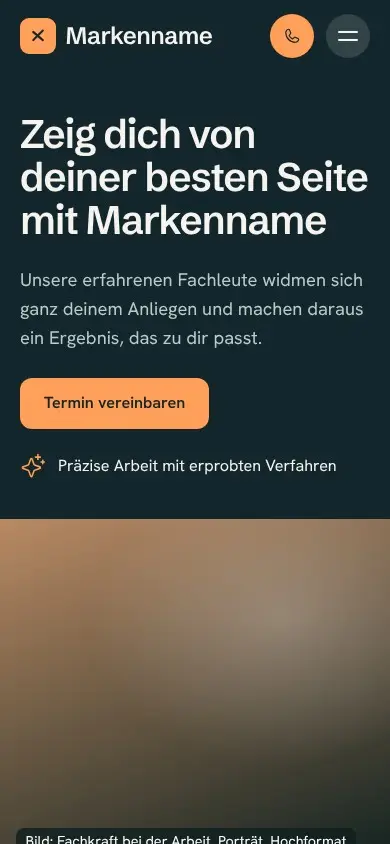
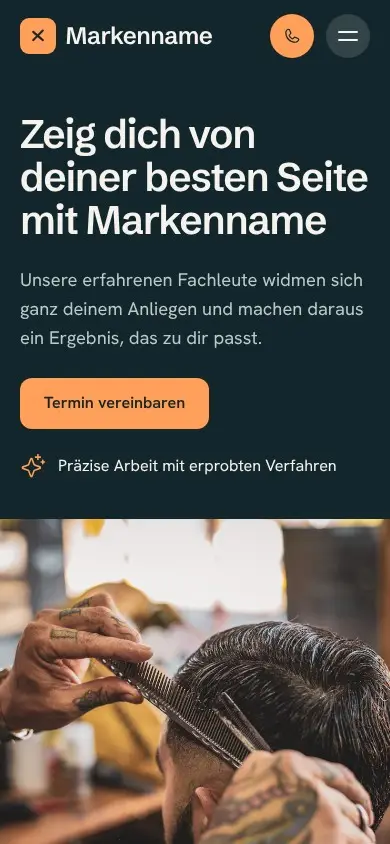
Bibliothek t38: Beispielfotos (Unsplash) eingebaut, Vorschaubilder neu erzeugt
Claude-Session: https://claude.ai/code/session_01DoGuL1bwF3ewggMgZ4Cpvd

diff --git a/skills/webdesign-conversion/assets/vorlagen/bibliothek/t38/v2.html b/skills/webdesign-conversion/assets/vorlagen/bibliothek/t38/v2.html
@@ -69,7 +69,7 @@
 <main id="inhalt">
   <!-- 1. Held Vollbild mit Verlauf von links -->
   <section class="held2" id="top" aria-labelledby="h-held">
-    <div class="bild held2__bild" data-platzhalter="Bild: Fachkraft bei der Arbeit, Porträt, Querformat" role="img" aria-label="Platzhalter für ein Foto einer Fachkraft bei der Arbeit" data-parallax="0.06"></div>
+    <div class="bild held2__bild" data-parallax="0.06"><img src="bilder/herrenschnitt-nacken.webp" width="1600" height="1067" alt="Friseur schneidet Haare am Nacken eines Kunden" loading="lazy" decoding="async"></div>
     <div class="held2__schleier" aria-hidden="true"></div>
     <div class="wrap held2__innen">
       <h1 id="h-held" data-zeig>Erlebe Qualität wie noch nie zuvor</h1>
@@ -106,7 +106,7 @@
           <li>Eine ruhige Pause mit angenehmer Pflege</li>
         </ul>
       </div>
-      <div class="bild kerbe ueber2__bild" data-zeig="skala" data-platzhalter="Bild: Arbeit am Platz, Querformat" role="img" aria-label="Platzhalter für ein Foto der Arbeit am Platz"></div>
+      <div class="bild kerbe ueber2__bild" data-zeig="skala"><img src="bilder/haarschneidemaschine-nacken.webp" width="1600" height="1067" alt="Haarschneidemaschine am Nacken" loading="lazy" decoding="async"></div>
     </div>
   </section>
 
@@ -126,10 +126,10 @@
       <div class="leistungen2__feld">
         <h2 id="h-leistungen2" data-zeig>Unsere Hauptleistungen</h2>
         <ul class="leistungen2__raster" data-staffel data-beispiel>
-          <li class="leistung2" data-zeig><div class="bild bild--p1" data-platzhalter="Bild" role="img" aria-label="Platzhalter für ein Foto"></div><div><h3>Schnitt</h3><p>Wir schneiden maßgeschneidert und passend zu dir und deinem Alltag.</p><a class="leistung2__link" href="#preise">Zur Preisliste<svg width="18" height="18" aria-hidden="true" focusable="false"><use href="#i-arrow-right"/></svg></a></div></li>
-          <li class="leistung2" data-zeig><div class="bild bild--p2" data-platzhalter="Bild" role="img" aria-label="Platzhalter für ein Foto"></div><div><h3>Farbe</h3><p>Von dezent bis kräftig: fachgerecht, mit Beratung und Nachsorge.</p><a class="leistung2__link" href="#preise">Zur Preisliste<svg width="18" height="18" aria-hidden="true" focusable="false"><use href="#i-arrow-right"/></svg></a></div></li>
-          <li class="leistung2" data-zeig><div class="bild bild--p3" data-platzhalter="Bild" role="img" aria-label="Platzhalter für ein Foto"></div><div><h3>Pflege</h3><p>Pflegende Behandlungen für mehr Glanz, Kraft und Wohlbefinden.</p><a class="leistung2__link" href="#preise">Zur Preisliste<svg width="18" height="18" aria-hidden="true" focusable="false"><use href="#i-arrow-right"/></svg></a></div></li>
-          <li class="leistung2" data-zeig><div class="bild bild--p4" data-platzhalter="Bild" role="img" aria-label="Platzhalter für ein Foto"></div><div><h3>Anlass</h3><p>Ein Look für Hochzeit, Fest oder Auftritt, der den ganzen Tag hält.</p><a class="leistung2__link" href="#preise">Zur Preisliste<svg width="18" height="18" aria-hidden="true" focusable="false"><use href="#i-arrow-right"/></svg></a></div></li>
+          <li class="leistung2" data-zeig><div class="bild bild--p1"><img src="bilder/damenschnitt-sw.webp" width="1000" height="632" alt="Schwarzweißbild eines Haarschnitts im Salon" loading="lazy" decoding="async"></div><div><h3>Schnitt</h3><p>Wir schneiden maßgeschneidert und passend zu dir und deinem Alltag.</p><a class="leistung2__link" href="#preise">Zur Preisliste<svg width="18" height="18" aria-hidden="true" focusable="false"><use href="#i-arrow-right"/></svg></a></div></li>
+          <li class="leistung2" data-zeig><div class="bild bild--p2"><img src="bilder/rundbuerste-rotes-haar.webp" width="1000" height="667" alt="Rundbürste in rotem Haar" loading="lazy" decoding="async"></div><div><h3>Farbe</h3><p>Von dezent bis kräftig: fachgerecht, mit Beratung und Nachsorge.</p><a class="leistung2__link" href="#preise">Zur Preisliste<svg width="18" height="18" aria-hidden="true" focusable="false"><use href="#i-arrow-right"/></svg></a></div></li>
+          <li class="leistung2" data-zeig><div class="bild bild--p3"><img src="bilder/farbpinsel-nahaufnahme.webp" width="800" height="450" alt="Nahaufnahme von Pinseln mit roten und braunen Borsten" loading="lazy" decoding="async"></div><div><h3>Pflege</h3><p>Pflegende Behandlungen für mehr Glanz, Kraft und Wohlbefinden.</p><a class="leistung2__link" href="#preise">Zur Preisliste<svg width="18" height="18" aria-hidden="true" focusable="false"><use href="#i-arrow-right"/></svg></a></div></li>
+          <li class="leistung2" data-zeig><div class="bild bild--p4"><img src="bilder/fade-schnitt.webp" width="1000" height="667" alt="Friseur arbeitet an einem Fade Haarschnitt" loading="lazy" decoding="async"></div><div><h3>Anlass</h3><p>Ein Look für Hochzeit, Fest oder Auftritt, der den ganzen Tag hält.</p><a class="leistung2__link" href="#preise">Zur Preisliste<svg width="18" height="18" aria-hidden="true" focusable="false"><use href="#i-arrow-right"/></svg></a></div></li>
         </ul>
         <p class="mitte"><a class="knopf" href="#preise">Alle Leistungen</a></p>
       </div>
@@ -174,13 +174,13 @@
   <!-- 7. Willkommensangebot im dunklen Feld mit zwei Bildern -->
   <section class="willkommen" aria-labelledby="h-willkommen">
     <div class="wrap willkommen__feld">
-      <div class="bild willkommen__bild willkommen__bild--a" data-zeig="links" data-platzhalter="Bild: Detail" role="img" aria-label="Platzhalter für ein Foto"></div>
+      <div class="bild willkommen__bild willkommen__bild--a" data-zeig="links"><img src="bilder/farbpinsel-nahaufnahme.webp" width="800" height="450" alt="Nahaufnahme von Pinseln mit roten und braunen Borsten" loading="lazy" decoding="async"></div>
       <div class="willkommen__text" data-zeig>
         <h2 id="h-willkommen"><span>Willkommensangebot</span> 20 Prozent Nachlass auf deinen ersten Besuch</h2>
         <p data-beispiel>Wir möchten dich mit einem besonderen Nachlass auf deinen ersten Termin kennenlernen.</p>
         <p><a class="knopf" href="#termin">Angebot sichern</a></p>
       </div>
-      <div class="bild willkommen__bild willkommen__bild--b" data-zeig="rechts" data-platzhalter="Bild: Beratung" role="img" aria-label="Platzhalter für ein Foto"></div>
+      <div class="bild willkommen__bild willkommen__bild--b" data-zeig="rechts"><img src="bilder/salon-empfang-regale.webp" width="1600" height="1067" alt="Heller Salon mit Empfangstresen und Regalen voller Haarprodukte" loading="lazy" decoding="async"></div>
     </div>
   </section>
 
@@ -270,8 +270,8 @@
     <div class="wrap">
       <header class="ratgeber__kopf"><h2 id="h-ratgeber" data-zeig>Aus unserem Ratgeber</h2><a class="knopf" href="#ratgeber">Alle Beiträge</a></header>
       <ul class="ratgeber__raster" data-staffel data-beispiel>
-        <li class="beitrag" data-zeig><div><p class="beitrag__datum">2. Dezember 2026</p><h3>Trends, die du in dieser Saison probieren kannst</h3></div><a class="knopf knopf--dunkel" href="#ratgeber">Weiterlesen<span class="sr-nur">: Trends</span></a><div class="bild bild--p2" data-platzhalter="Bild" role="img" aria-label="Platzhalter für ein Foto"></div></li>
-        <li class="beitrag" data-zeig><div><p class="beitrag__datum">2. Dezember 2026</p><h3>So wählst du die passende Farbe für deinen Typ</h3></div><a class="knopf knopf--dunkel" href="#ratgeber">Weiterlesen<span class="sr-nur">: Farbwahl</span></a><div class="bild bild--p3" data-platzhalter="Bild" role="img" aria-label="Platzhalter für ein Foto"></div></li>
+        <li class="beitrag" data-zeig><div><p class="beitrag__datum">2. Dezember 2026</p><h3>Trends, die du in dieser Saison probieren kannst</h3></div><a class="knopf knopf--dunkel" href="#ratgeber">Weiterlesen<span class="sr-nur">: Trends</span></a><div class="bild bild--p2"><img src="bilder/friseur-rasiermesser.webp" width="800" height="533" alt="Friseur arbeitet mit Kamm und Schere an einem Haarschnitt" loading="lazy" decoding="async"></div></li>
+        <li class="beitrag" data-zeig><div><p class="beitrag__datum">2. Dezember 2026</p><h3>So wählst du die passende Farbe für deinen Typ</h3></div><a class="knopf knopf--dunkel" href="#ratgeber">Weiterlesen<span class="sr-nur">: Farbwahl</span></a><div class="bild bild--p3"><img src="bilder/lockenwickler-pinsel.webp" width="800" height="620" alt="Haare mit Lockenwicklern, ein Pinsel wird aufgetragen" loading="lazy" decoding="async"></div></li>
       </ul>
     </div>
   </section>

diff --git a/skills/webdesign-conversion/assets/vorlagen/bibliothek/t38/index.html b/skills/webdesign-conversion/assets/vorlagen/bibliothek/t38/index.html
@@ -76,7 +76,7 @@
         <p class="held__zeile" data-zeig><svg width="26" height="26" aria-hidden="true" focusable="false"><use href="#i-sparkle"/></svg>Präzise Arbeit mit erprobten Verfahren</p>
       </div>
     </div>
-    <div class="bild held__bild" data-platzhalter="Bild: Fachkraft bei der Arbeit, Porträt, Hochformat" role="img" aria-label="Platzhalter für ein Foto einer Fachkraft bei der Arbeit"></div>
+    <div class="bild held__bild"><img src="bilder/friseur-kamm-schere.webp" width="1000" height="668" alt="Hände mit Kamm und Schere beim Haarschnitt" loading="lazy" decoding="async"></div>
   </section>
 
   <!-- 2. Anspruch mit Bild -->
@@ -92,7 +92,7 @@
           </ul>
           <p data-zeig><a class="knopf knopf--dunkel" href="#leistungen">Mehr über uns</a></p>
         </div>
-        <div class="bild kerbe anspruch__bild" data-zeig="skala" data-platzhalter="Bild: Teamarbeit im Studio, Querformat" role="img" aria-label="Platzhalter für ein Foto der Teamarbeit"><a class="kerbe__knopf" href="#leistungen" aria-label="Zu den Leistungen"><svg width="22" height="22" aria-hidden="true" focusable="false"><use href="#i-arrow-up-right"/></svg></a></div>
+        <div class="bild kerbe anspruch__bild" data-zeig="skala"><img src="bilder/friseure-bei-der-arbeit.webp" width="1600" height="900" alt="Mehrere Friseure bei der Arbeit an Stühlen vor Spiegeln" loading="lazy" decoding="async"><a class="kerbe__knopf" href="#leistungen" aria-label="Zu den Leistungen"><svg width="22" height="22" aria-hidden="true" focusable="false"><use href="#i-arrow-up-right"/></svg></a></div>
       </div>
     </div>
   </section>
@@ -119,7 +119,7 @@
   <!-- 4. Angebote: Sandband mit Bildkarte und dunkler Karte -->
   <section class="angebote" id="angebote" aria-labelledby="h-angebote">
     <div class="wrap angebote__raster">
-      <div class="bild kerbe angebote__bild" data-zeig data-platzhalter="Bild: Fachkraft im Gespräch mit Kunde, Querformat" role="img" aria-label="Platzhalter für ein Foto eines Beratungsgesprächs"></div>
+      <div class="bild kerbe angebote__bild" data-zeig><img src="bilder/salon-empfang-regale.webp" width="1600" height="1067" alt="Heller Salon mit Empfangstresen und Regalen voller Haarprodukte" loading="lazy" decoding="async"></div>
       <div class="kerbe angebote__karte" data-zeig>
         <h2 id="h-angebote">Exklusive Angebote</h2>
         <p>Mit unseren Angeboten erlebst du unsere Leistungen zu einem besonderen Preis.</p>
@@ -149,7 +149,7 @@
   <section class="sektion studio" aria-labelledby="h-studio">
     <div class="wrap studio__raster">
       <div class="studio__bildblock">
-        <div class="bild kerbe studio__bild" data-zeig="skala" data-platzhalter="Bild: Studioeinblick, Querformat" role="img" aria-label="Platzhalter für ein Foto vom Studio"></div>
+        <div class="bild kerbe studio__bild" data-zeig="skala"><img src="bilder/salon-stuehle-reihe.webp" width="1600" height="1067" alt="Heller Salonraum mit einer Reihe schwarzer Stühle" loading="lazy" decoding="async"></div>
         <svg class="siegel-rund" viewBox="0 0 120 120" aria-hidden="true" focusable="false">
           <circle cx="60" cy="60" r="58" fill="var(--flaeche-dunkel)"/>
           <circle cx="60" cy="60" r="51" fill="none" stroke="var(--akzent)" stroke-width="1.5"/>
@@ -173,9 +173,9 @@
   <!-- 7. Galerie: Mosaik über dunklem Band -->
   <section class="galerie" id="galerie" aria-label="Eindrücke aus dem Studio">
     <div class="wrap galerie__raster" data-staffel>
-      <div class="bild galerie__a" data-zeig data-platzhalter="Bild: Arbeit am Platz" role="img" aria-label="Platzhalter für ein Foto"></div>
-      <div class="bild galerie__b" data-zeig data-platzhalter="Bild: Detail der Arbeit, Querformat" role="img" aria-label="Platzhalter für ein Foto"></div>
-      <div class="bild galerie__c" data-zeig data-platzhalter="Bild: Zwei Personen im Studio, Querformat" role="img" aria-label="Platzhalter für ein Foto"></div>
+      <div class="bild galerie__a" data-zeig><img src="bilder/schere-haarschnitt-sw.webp" width="1000" height="672" alt="Schwarzweißbild einer Hand mit Schere und Kamm beim Schneiden" loading="lazy" decoding="async"></div>
+      <div class="bild galerie__b" data-zeig><img src="bilder/rundbuerste-rotes-haar.webp" width="1000" height="667" alt="Rundbürste in rotem Haar" loading="lazy" decoding="async"></div>
+      <div class="bild galerie__c" data-zeig><img src="bilder/salon-abendstimmung.webp" width="1000" height="685" alt="Salon mit Stühlen und Regalen in warmem Abendlicht" loading="lazy" decoding="async"></div>
       <div class="kerbe galerie__karte" data-zeig>
         <h2>Wo Kreativität auf Handwerk trifft und jeder Look gelingt.</h2>
         <p><a class="knopf knopf--dunkel" href="#galerie">Galerie ansehen</a></p>

diff --git a/skills/webdesign-conversion/assets/vorlagen/bibliothek/t38/BILDER.md b/skills/webdesign-conversion/assets/vorlagen/bibliothek/t38/BILDER.md
@@ -1,0 +1,31 @@
+# Bilder t38
+
+Alle Fotos von Unsplash, abgerufen am 25.11.2026. Titel und Lizenz stehen so auf der Seite des Fotos (Titel von Unsplash automatisch vergeben), als Fotograf ist das Unsplash Profil angegeben, weil die Seite den Namen nur als Profillink zeigte. Lizenz ist jeweils die Unsplash Lizenz.
+
+| Datei | Platz | Foto Titel | Fotograf (Profil) | Seite | Lizenz | Abruf |
+|---|---|---|---|---|---|---|
+| friseur-kamm-schere.webp.webp | index: Hero | Mann im schwarz-weißen Hemd | agustinfernandez | https://unsplash.com/photos/Sb5TuW7Nr1o | Unsplash Lizenz | 25.11.2026 |
+| friseure-bei-der-arbeit.webp.webp | index: Anspruch, Teamarbeit | Friseure schneiden Haare in einem modernen Salon | pflores | https://unsplash.com/photos/iOdWp__E6AA | Unsplash Lizenz | 25.11.2026 |
+| salon-empfang-regale.webp.webp | index: Angebote; v2: Willkommen Beratung | Ein Friseursalon-Interieur mit Haarprodukten und Kunden | sumup | https://unsplash.com/photos/5xFEY6ZEE8g | Unsplash Lizenz | 25.11.2026 |
+| salon-stuehle-reihe.webp.webp | index: Studioeinblick | Frau im weißen Hemd steht neben schwarzen Ledersesseln | giorgiotrovato | https://unsplash.com/photos/OKXwmdbdXkk | Unsplash Lizenz | 25.11.2026 |
+| schere-haarschnitt-sw.webp.webp | index: Galerie a | Eine Frau, die einer anderen Frau mit einer Schere die Haare schneidet | gabigi | https://unsplash.com/photos/8CLerODobnc | Unsplash Lizenz | 25.11.2026 |
+| rundbuerste-rotes-haar.webp.webp | index: Galerie b; v2: Leistung Farbe | Nahaufnahme einer Frau, die sich die Haare föhnt | iamblondfox | https://unsplash.com/photos/JFlJS6Nm9n8 | Unsplash Lizenz | 25.11.2026 |
+| salon-abendstimmung.webp.webp | index: Galerie c | Ein leeres Friseursalon-Interieur mit mehreren Stühlen und Spiegeln | bgoodpic | https://unsplash.com/photos/AXurvQTtO3Y | Unsplash Lizenz | 25.11.2026 |
+| herrenschnitt-nacken.webp.webp | v2: Hero | Friseur schneidet Mann die Haare | jk2kphotos | https://unsplash.com/photos/idzUojjazCg | Unsplash Lizenz | 25.11.2026 |
+| haarschneidemaschine-nacken.webp.webp | v2: Über uns | Person, die eine weiße Haarschneidemaschine benutzt | itspminhai | https://unsplash.com/photos/m4Pd_e-4zKs | Unsplash Lizenz | 25.11.2026 |
+| damenschnitt-sw.webp.webp | v2: Leistung Schnitt | Eine Frau, die einer anderen Frau in einem Salon die Haare schneidet | gabigi | https://unsplash.com/photos/el9O2EEmp0k | Unsplash Lizenz | 25.11.2026 |
+| farbpinsel-nahaufnahme.webp.webp | v2: Leistung Pflege, Willkommen Detail | Eine Nahaufnahme von drei Pinseln in einem Salon | erfanamiri | https://unsplash.com/photos/2YDsH_hRGWg | Unsplash Lizenz | 25.11.2026 |
+| fade-schnitt.webp.webp | v2: Leistung Anlass | Mann im weißen Kleid Hemd schneiden Haare des Mannes | demoya | https://unsplash.com/photos/Q82AM6BWBPM | Unsplash Lizenz | 25.11.2026 |
+| friseur-rasiermesser.webp.webp | v2: Ratgeber 1 | Selektive Fokusfotografie einer Person, die die Haare eines Mannes schneidet | jibarox | https://unsplash.com/photos/ia5aE4JL8_A | Unsplash Lizenz | 25.11.2026 |
+| lockenwickler-pinsel.webp.webp | v2: Ratgeber 2 | Nahaufnahme einer Frau, die ihr Haar bürstet | arizonanthony | https://unsplash.com/photos/IlVv8R0QImo | Unsplash Lizenz | 25.11.2026 |
+
+## Hinweise
+
+* Mehrere Motive zeigen Herrenfriseur und Barbier, die Vorlage ist für Friseur und Studio allgemein gedacht; bei Damensalons Motive tauschen.
+* Das Foto im Empfang (sumup) zeigt im Regal Haarprodukte, Marken sind nicht lesbar.
+* Nur Atmosphärenbilder, keine echten Teammitglieder.
+
+## Offen
+
+* index: drei Porträts der Folie (Stimmen)
+* v2: freigestelltes Personenbild im Aufruf (Hochformat, Fachkraft freigestellt)
